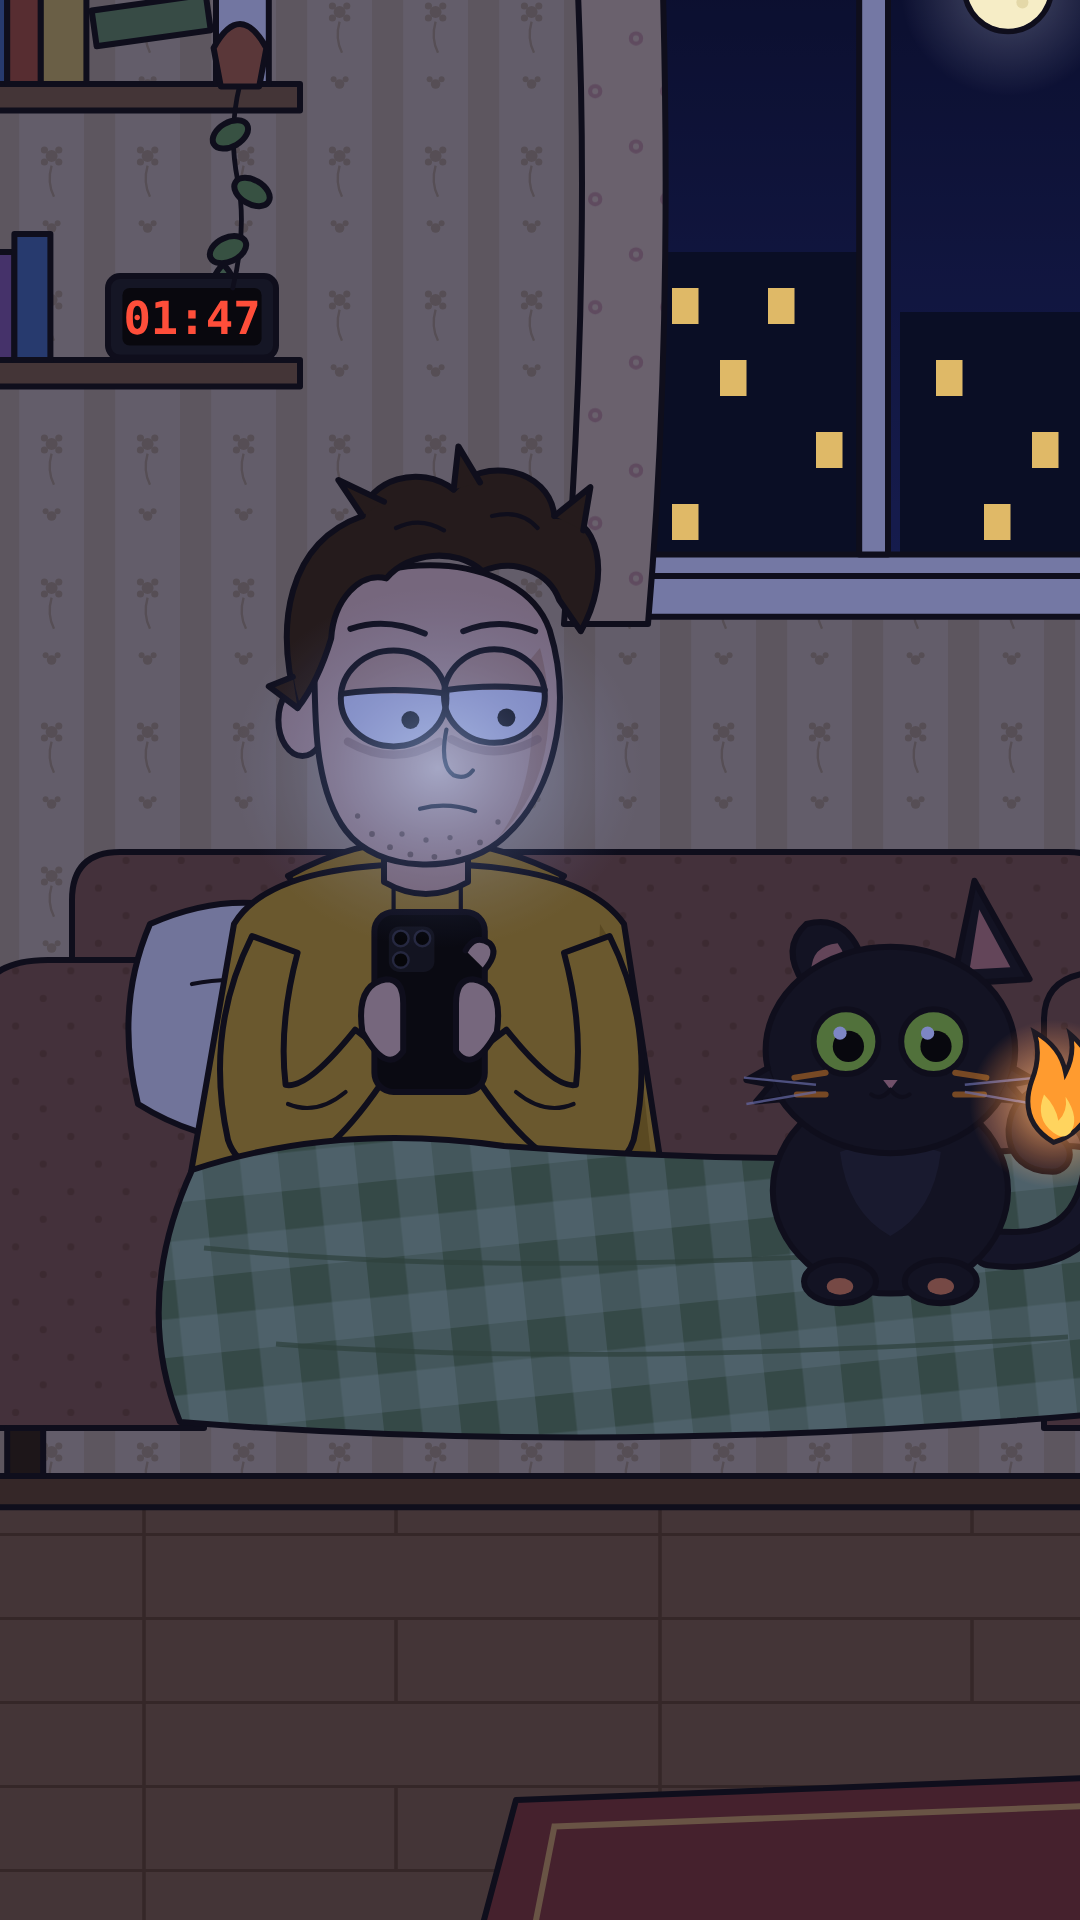
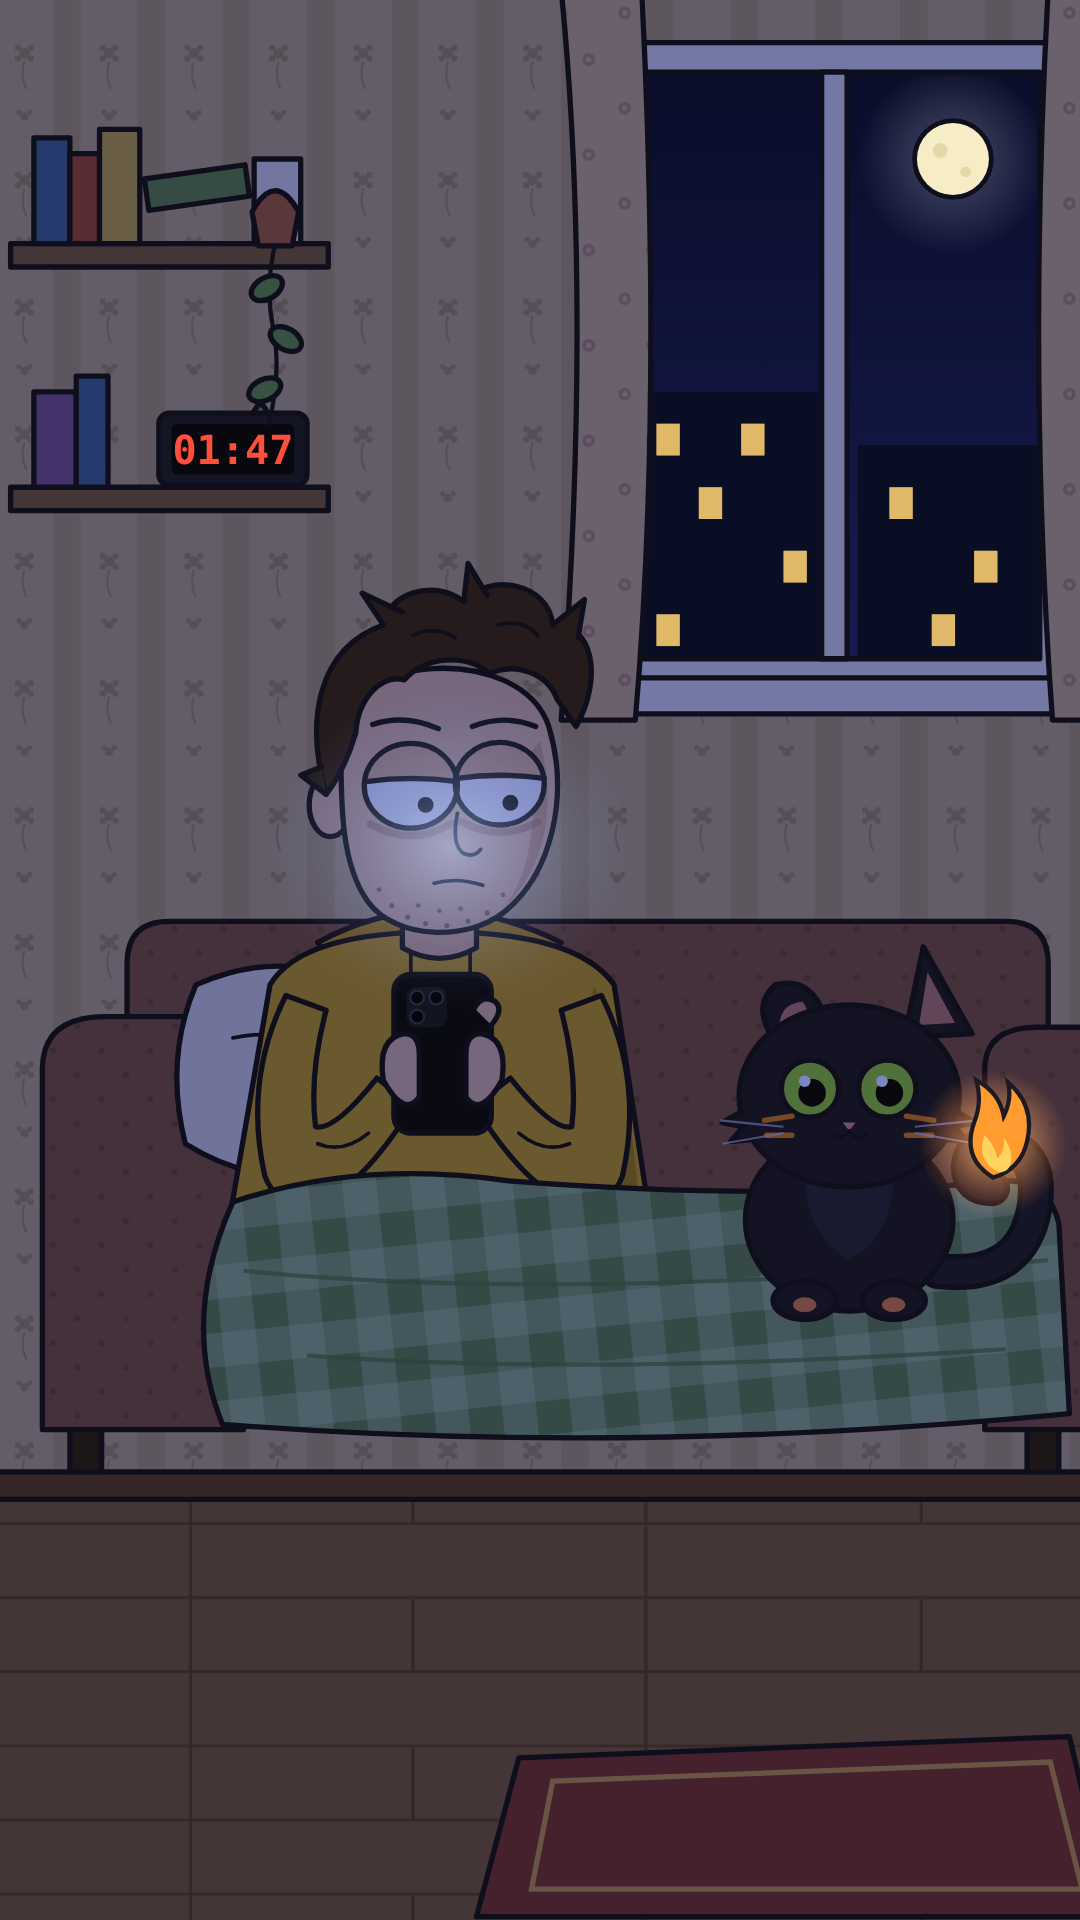
Story reel: night scene framing
Claude-Session: https://claude.ai/code/session_01WL83YHdupNJiw52fjyDVVG

diff --git a/videos/22_dima/story/code/night.html b/videos/22_dima/story/code/night.html
@@ -9,7 +9,7 @@
   .glow { mix-blend-mode: screen; }
 </style></head>
 <body>
-<svg id="scene" width="1080" height="1920" viewBox="90 260 900 1600" xmlns="http://www.w3.org/2000/svg">
+<svg id="scene" width="1080" height="1920" viewBox="30 100 1020 1813" xmlns="http://www.w3.org/2000/svg">
 <defs>
   <!-- обои: полосы + мелкий цветок -->
   <pattern id="wall" width="80" height="120" patternUnits="userSpaceOnUse">
